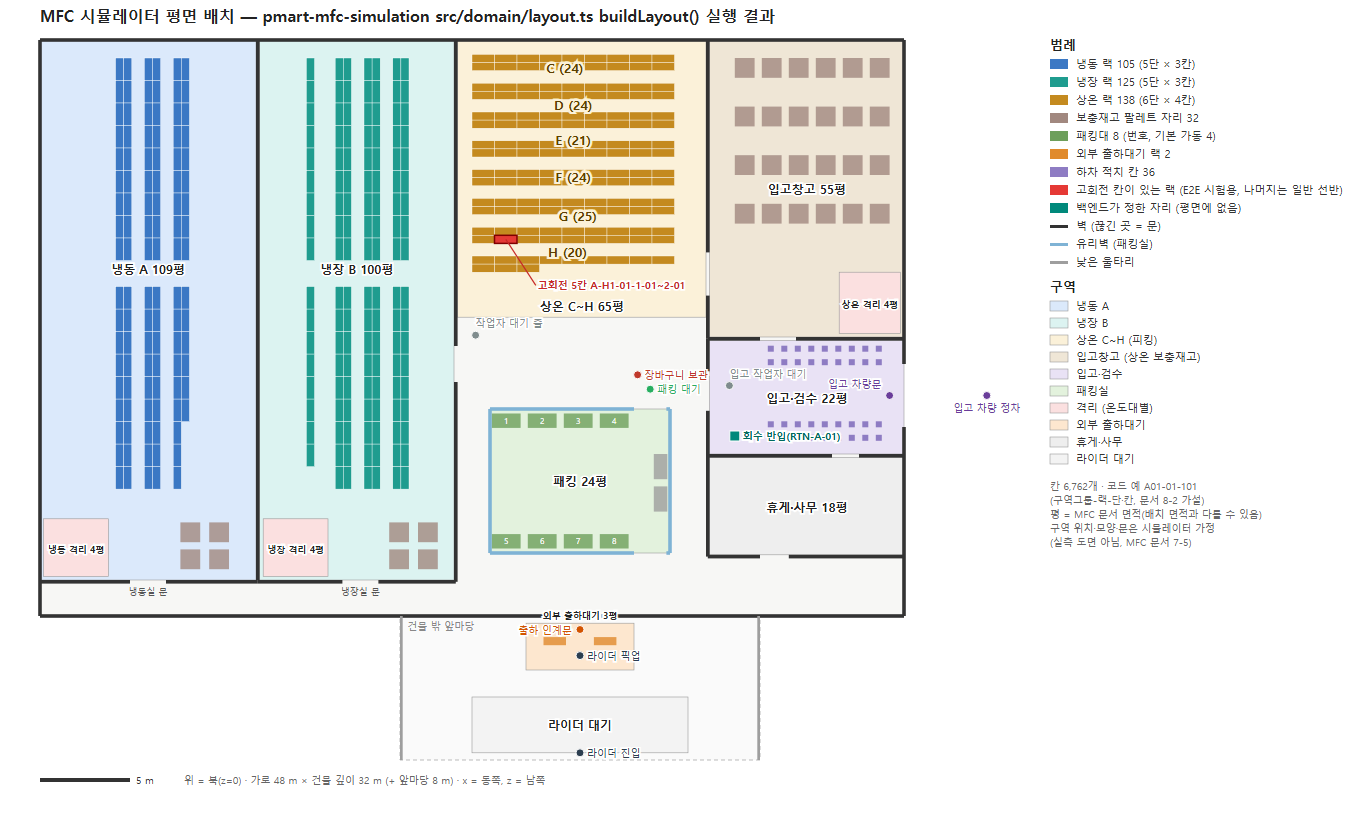
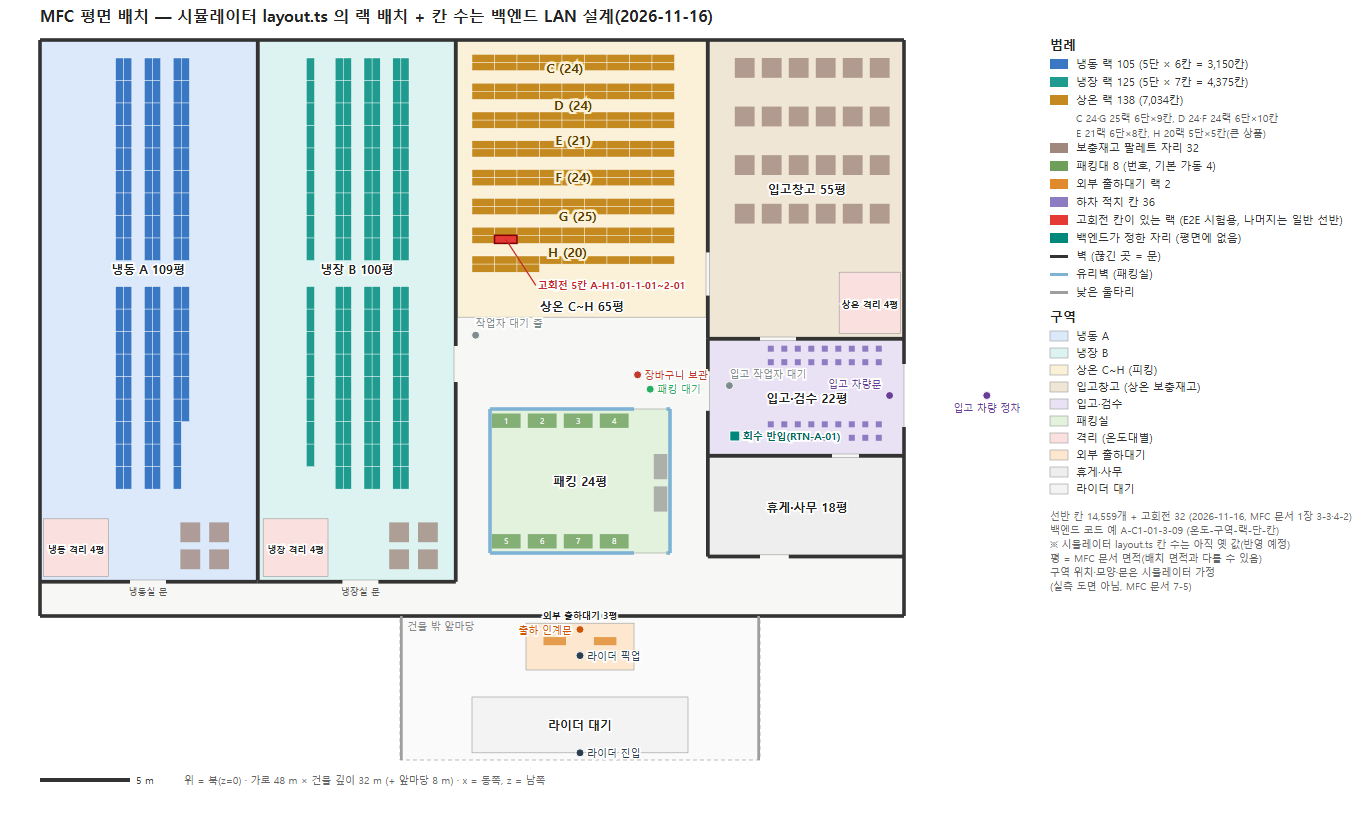
docs(simulator): MFC 평면도 다시 그림 — 칸 수를 문서 설계(14,559칸)로, 범례·README
Claude-Session: https://claude.ai/code/session_01NR2tLKDbKU3xNqbQDqXnoo

Changed region(s): [[0.7664, 0.0602, 0.981, 0.7229], [0.0613, 0.0, 0.5825, 0.0301]]

diff --git a/docs/simulator/mfc/layout/tools/draw.py b/docs/simulator/mfc/layout/tools/draw.py
@@ -39,7 +39,7 @@ a(f'<svg xmlns="http://www.w3.org/2000/svg" width="{Wpx}" height="{Hpx}" viewBox
   f'font-family="Malgun Gothic, Noto Sans KR, Apple SD Gothic Neo, sans-serif">')
 a(f'<rect width="{Wpx}" height="{Hpx}" fill="#ffffff"/>')
 a(f'<text x="{M}" y="22" font-size="16" font-weight="700" fill="#222">'
-  f'MFC 시뮬레이터 평면 배치 — pmart-mfc-simulation src/domain/layout.ts buildLayout() 실행 결과</text>')
+  f'MFC 평면 배치 — 시뮬레이터 layout.ts 의 랙 배치 + 칸 수는 백엔드 LAN 설계(2026-11-16)</text>')
 
 
 def rect(r, fill, extra=''):
@@ -142,12 +142,16 @@ lx = M + W_M * S + 20
 y = M + 10
 a(f'<text x="{lx}" y="{y}" font-size="13" font-weight="700" fill="#222">범례</text>')
 y += 18
-items = [('box', rack_fill['FROZEN'], '냉동 랙 105 (5단 × 3칸)'), ('box', rack_fill['CHILLED'], '냉장 랙 125 (5단 × 3칸)'),
-         ('box', rack_fill['AMBIENT'], '상온 랙 138 (6단 × 4칸)'), ('box', '#a1887f', '보충재고 팔레트 자리 32'),
+items = [('box', rack_fill['FROZEN'], '냉동 랙 105 (5단 × 6칸 = 3,150칸)'), ('box', rack_fill['CHILLED'], '냉장 랙 125 (5단 × 7칸 = 4,375칸)'),
+         ('box', rack_fill['AMBIENT'], '상온 랙 138 (7,034칸)'), ('text', None, '  C 24·G 25랙 6단×9칸, D 24·F 24랙 6단×10칸'), ('text', None, '  E 21랙 6단×8칸, H 20랙 5단×5칸(큰 상품)'), ('box', '#a1887f', '보충재고 팔레트 자리 32'),
          ('box', '#6d9f5b', '패킹대 8 (번호, 기본 가동 4)'), ('box', '#e08a2c', '외부 출하대기 랙 2'),
          ('box', '#8e7cc3', '하차 적치 칸 36'), ('box', '#e53935', '고회전 칸이 있는 랙 (E2E 시험용, 나머지는 일반 선반)'), ('box', '#00897b', '백엔드가 정한 자리 (평면에 없음)'), ('line', '#333', '벽 (끊긴 곳 = 문)'),
          ('line', '#7fb3d5', '유리벽 (패킹실)'), ('line', '#9e9e9e', '낮은 울타리')]
 for kind, col, lab in items:
+    if kind == 'text':
+        a(f'<text x="{lx + 26}" y="{y}" font-size="10" fill="#555">{e(lab)}</text>')
+        y += 15
+        continue
     if kind == 'line':
         a(f'<rect x="{lx}" y="{y - 5}" width="18" height="3" fill="{col}"/>')
     else:
@@ -165,7 +169,7 @@ for k, lab in [('FROZEN', '냉동 A'), ('CHILLED', '냉장 B'), ('AMBIENT', '상
       f'<text x="{lx + 26}" y="{y}" font-size="11" fill="#333">{e(lab)}</text>')
     y += 17
 y += 10
-for n in ['칸 6,762개 · 코드 예 A01-01-101', '(구역그룹-랙-단·칸, 문서 8-2 가설)', '평 = MFC 문서 면적(배치 면적과 다를 수 있음)',
+for n in ['선반 칸 14,559개 + 고회전 32 (2026-11-16, MFC 문서 1장 3-3·4-2)', '백엔드 코드 예 A-C1-01-3-09 (온도-구역-랙-단-칸)', '※ 시뮬레이터 layout.ts 칸 수는 아직 옛 값(반영 예정)', '평 = MFC 문서 면적(배치 면적과 다를 수 있음)',
           '구역 위치·모양·문은 시뮬레이터 가정', '(실측 도면 아님, MFC 문서 7-5)']:
     a(f'<text x="{lx}" y="{y}" font-size="10" fill="#666">{e(n)}</text>')
     y += 14

diff --git a/docs/simulator/mfc/layout/README.md b/docs/simulator/mfc/layout/README.md
@@ -2,6 +2,8 @@
 
 ![MFC 시뮬레이터 평면](floorplan.svg)
 
+> 2026-11-16 다시 그림: 랙 배치는 시뮬레이터 그대로, 범례의 칸 수는 백엔드 LAN 문서 설계(냉동 5단×6, 냉장 5단×7, 상온 C9·D10·E8·F10·G9, H 5단×5 — 14,559칸).
+
 - **출처**: `pmart-mfc-simulation/src/domain/layout.ts` 의 `buildLayout()` 를 그대로 실행해 얻은 좌표(`layout.json`)로 그렸다 — 손으로 옮겨 그린 것이 아니다. 기준: 시뮬레이터 커밋 `a6c3f2e`(layout.ts 마지막 변경), 2026-11-09.
 - **임시 시험 MFC 한 곳의 도면이다.** 도면은 MFC 마다 다르다(사용자 2026-11-09, ADR-0050).
 - **주의**: 구역의 위치·모양·문은 **시뮬레이터의 가정**이다(MFC 업무 문서 7-5 "현장 실측 도면 아님"). 면적·랙 수·랙 규격·패킹대 수는 MFC 업무 문서 1장·4장 값을 따른다.
@@ -50,7 +52,7 @@ MFC 문서 자체의 출처: 백엔드 커밋 `677d3a6`(2026-10-23)로 들어왔
 |---|---|---|
 | 한 단의 칸 수 | 냉장 7, 냉동 6, 상온 그룹별 5~10(C 9·D 10·E 8·F 10·G 9·H 5) | 냉장·냉동 3, 상온 4 |
 | 상온 H 그룹 단 수 | 5단 | 6단 |
-| 전체 칸 수 | 상온 7,034 + 냉장 약 4,375 + 냉동 약 3,150 ≈ 14,560(이론, 85 % 운영 한도 전) | 6,762 |
+| 전체 칸 수 | 상온 7,034 + 냉장 약 4,375 + 냉동 약 3,150 ≈ 14,560(이론, 85 % 운영 한도 전) | ~~6,762~~ → **백엔드 LAN 14,559**(2026-11-16, 시뮬레이터는 아직 6,762) |
 | 칸 폭 | 정하지 않음("상품 치수에 따라"), 칸 수로 나누면 상온 평균 약 125 mm·냉장 약 160 mm·냉동 약 190 mm | 상온 281 mm, 냉장·냉동 375 mm |
 | 팔레트 자리 높이 | 자료 없음 | 1.2 m(임시) |
 | 구역 위치·모양·문·통로 | 개념도만(1-3 공간 흐름도, 7-5 "현장 실측 도면 아님") | 시뮬레이터 가정 |
@@ -84,7 +86,7 @@ MFC 문서 자체의 출처: 백엔드 커밋 `677d3a6`(2026-10-23)로 들어왔
 | 냉동 랙 | 105 | 5단 × 3칸, 남북 방향 줄, 가운데 횡단 통로 |
 | 냉장 랙 | 125 | 5단 × 3칸, 같은 방식 |
 | 상온 랙 | 138 | 6단 × 4칸, 동서 방향 줄, 그룹 C 24·D 24·E 21·F 24·G 25·H 20(문서 구역 면적 비례 — 시뮬레이터 가정) |
-| 칸(로케이션) | 6,762 | 코드 `A01-01-101` = 구역그룹(A01)-랙(01)-단·칸(101), MFC 문서 8-2 가설 형식 |
+| 칸(로케이션) | 14,559 (백엔드 LAN 2026-11-16 — 시뮬레이터 layout.ts 는 아직 6,762) | 코드 `A01-01-101` = 구역그룹(A01)-랙(01)-단·칸(101), MFC 문서 8-2 가설 형식 |
 | 패킹대 | 8 | 북쪽 4 · 남쪽 4(문서 기본 가동 4, 최대 8) |
 | 보충재고 팔레트 자리 | 32 | 입고창고 24(상온), 냉동실 4, 냉장실 4 |
 | 하차 적치 칸 | 36 | 입고·검수 구역 |
